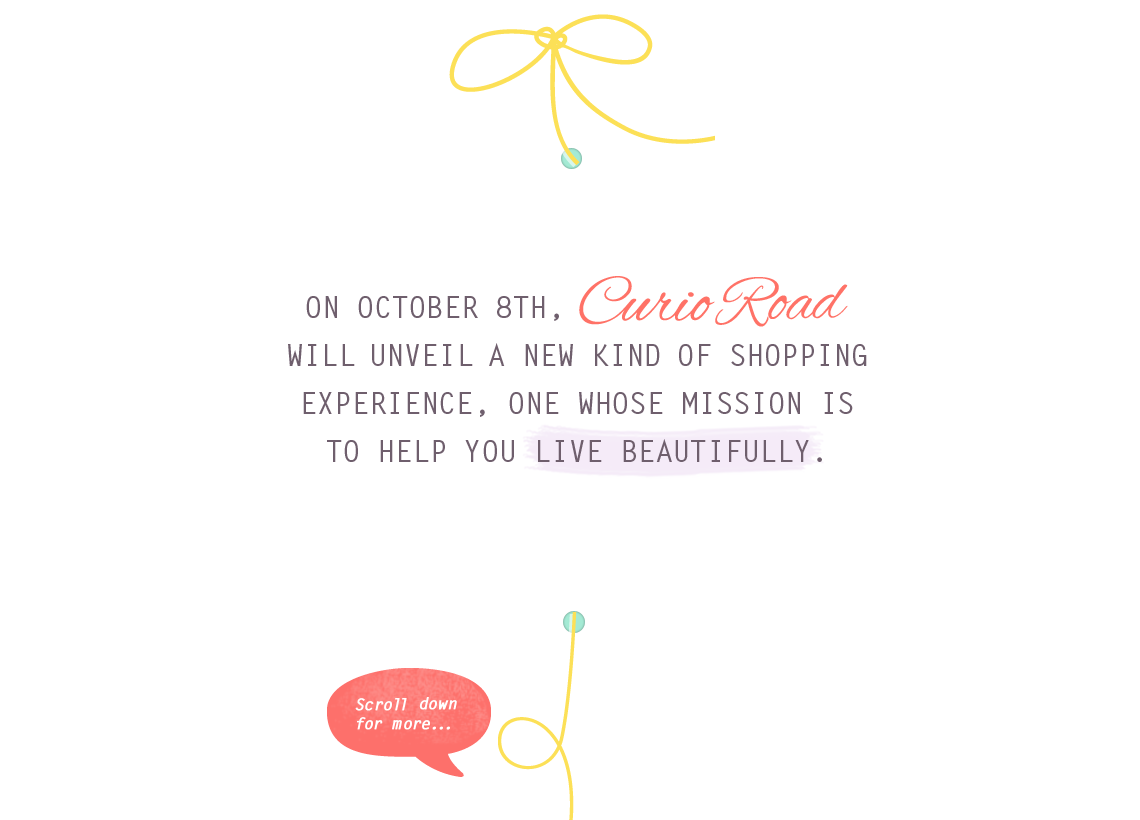
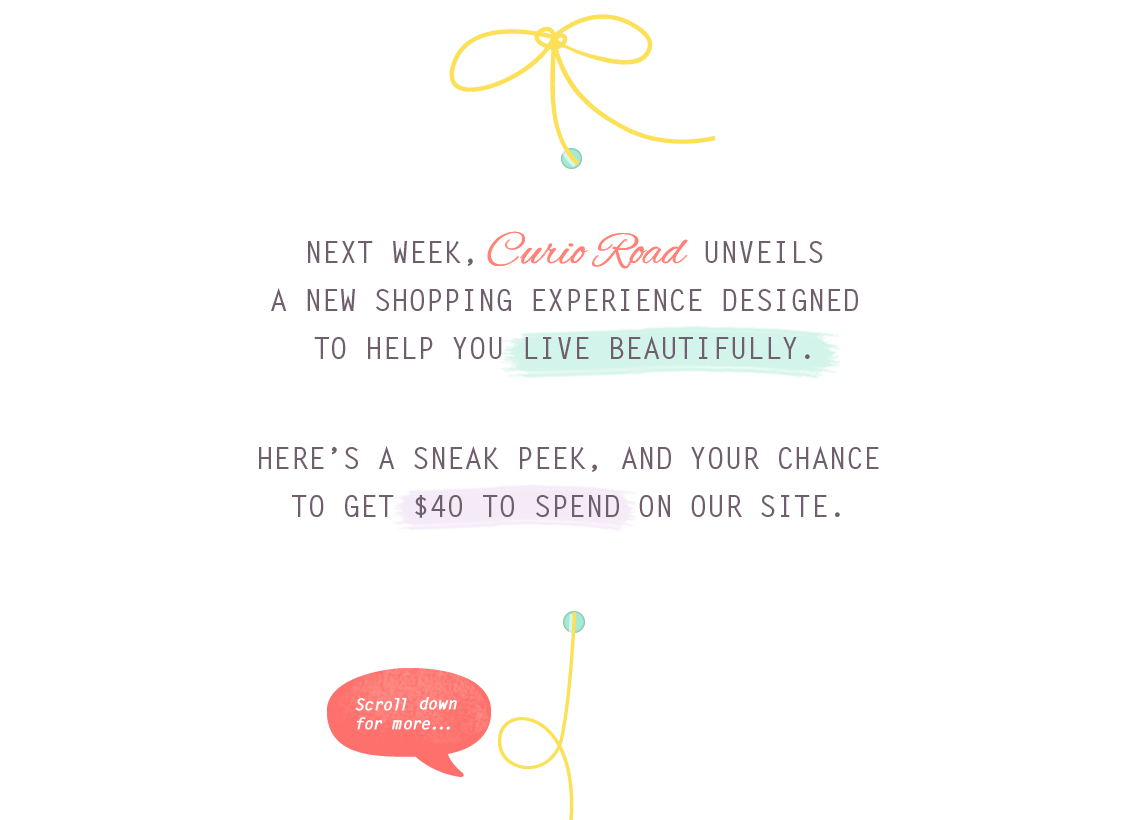
&36964113, #11316 -- new slide 1 text

Changed region(s): [[0.2149, 0.2744, 0.7675, 0.5793], [0.4298, 0.6098, 0.7368, 0.6402], [0.2456, 0.6098, 0.3991, 0.6402]]

diff --git a/public/static/css/style.css b/public/static/css/style.css
@@ -239,7 +239,7 @@ body, html { margin:0; padding:0; background-color:/*#fd8c80*/ white; }
 .shareitem { width:42px; height:42px; display:block;float:left; margin-right:15px; cursor:pointer; }
 #backstretch { z-index:100 !important; }
 #wrap { display:none; }
-#email_screen { width:100%; height:100%; position:fixed; /*min-width:800px; min-height: 600px;*/ z-index:101;;}
+#email_screen { width:100%; height:100%; position:fixed; /*min-width:800px; min-height: 600px;*/ z-index:101;}
 
 
 .form-list { list-style:none; margin:0; padding:0; }
